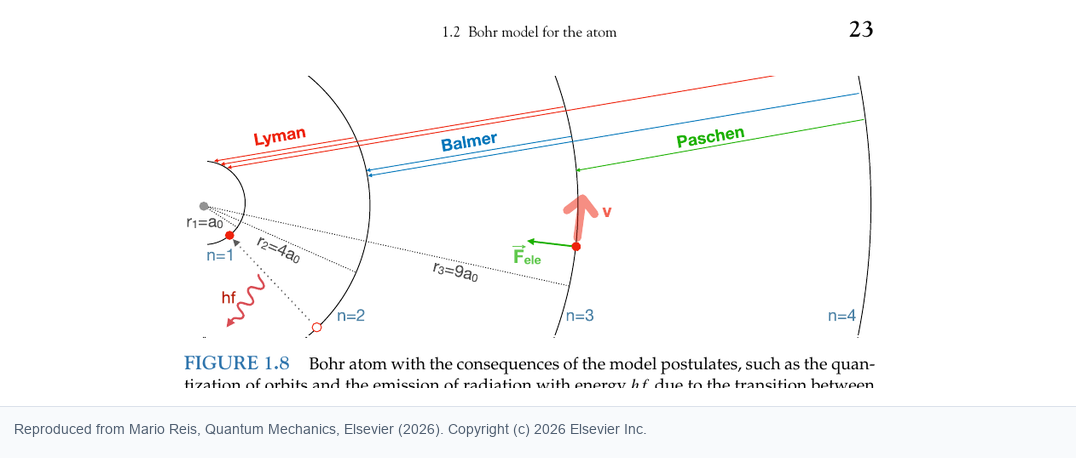
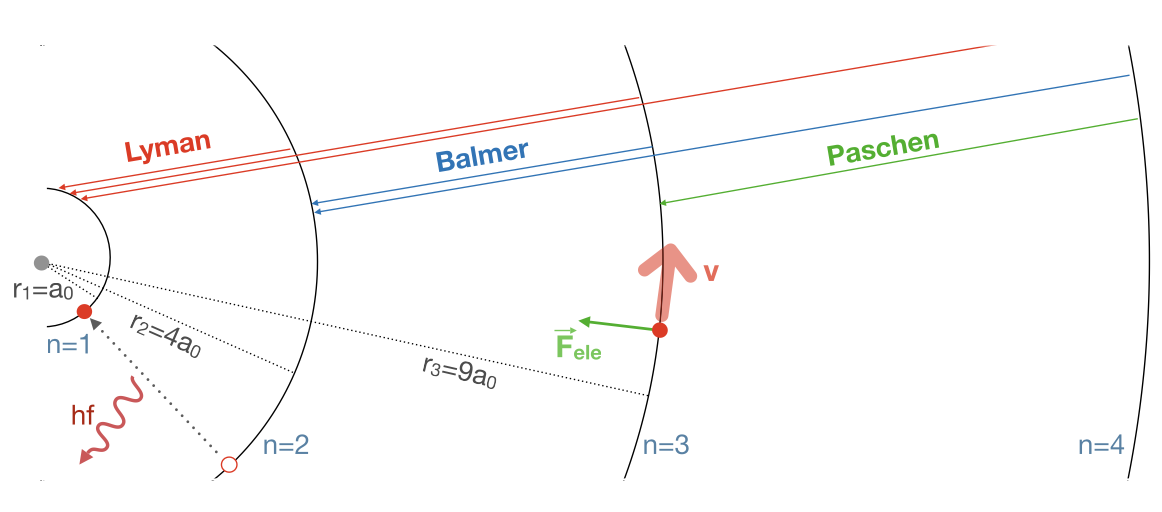
Update Bohr postulates figure crop

diff --git a/slides/chapter-01/bohr-model-postulates.html b/slides/chapter-01/bohr-model-postulates.html
@@ -151,7 +151,7 @@
         <div class="card">
           <div class="ch"><i class="fa-solid fa-atom"></i> Bohr's picture</div>
           <figure class="book-figure">
-            <img src="../../assets/chapter-01/figures/fig-1-8-bohr-atom.png?v=0619.3" alt="Fig. 1.8, adapted from the original chapter: spectral series are interpreted as transitions between allowed atomic levels." loading="lazy" />
+            <img src="../../assets/chapter-01/figures/fig-1-8-bohr-atom.png?v=0713.1" alt="Fig. 1.8, adapted from the original chapter: spectral series are interpreted as transitions between allowed atomic levels." loading="lazy" />
             <figcaption>Fig. 1.8, adapted from the original chapter: spectral series are interpreted as transitions between allowed atomic levels. Copyright &copy; 2026 Elsevier Inc.</figcaption>
           </figure>
           <p>Bohr keeps the planetary intuition but forbids arbitrary orbits. The electron occupies stationary states and emits or absorbs radiation only when changing state.</p>